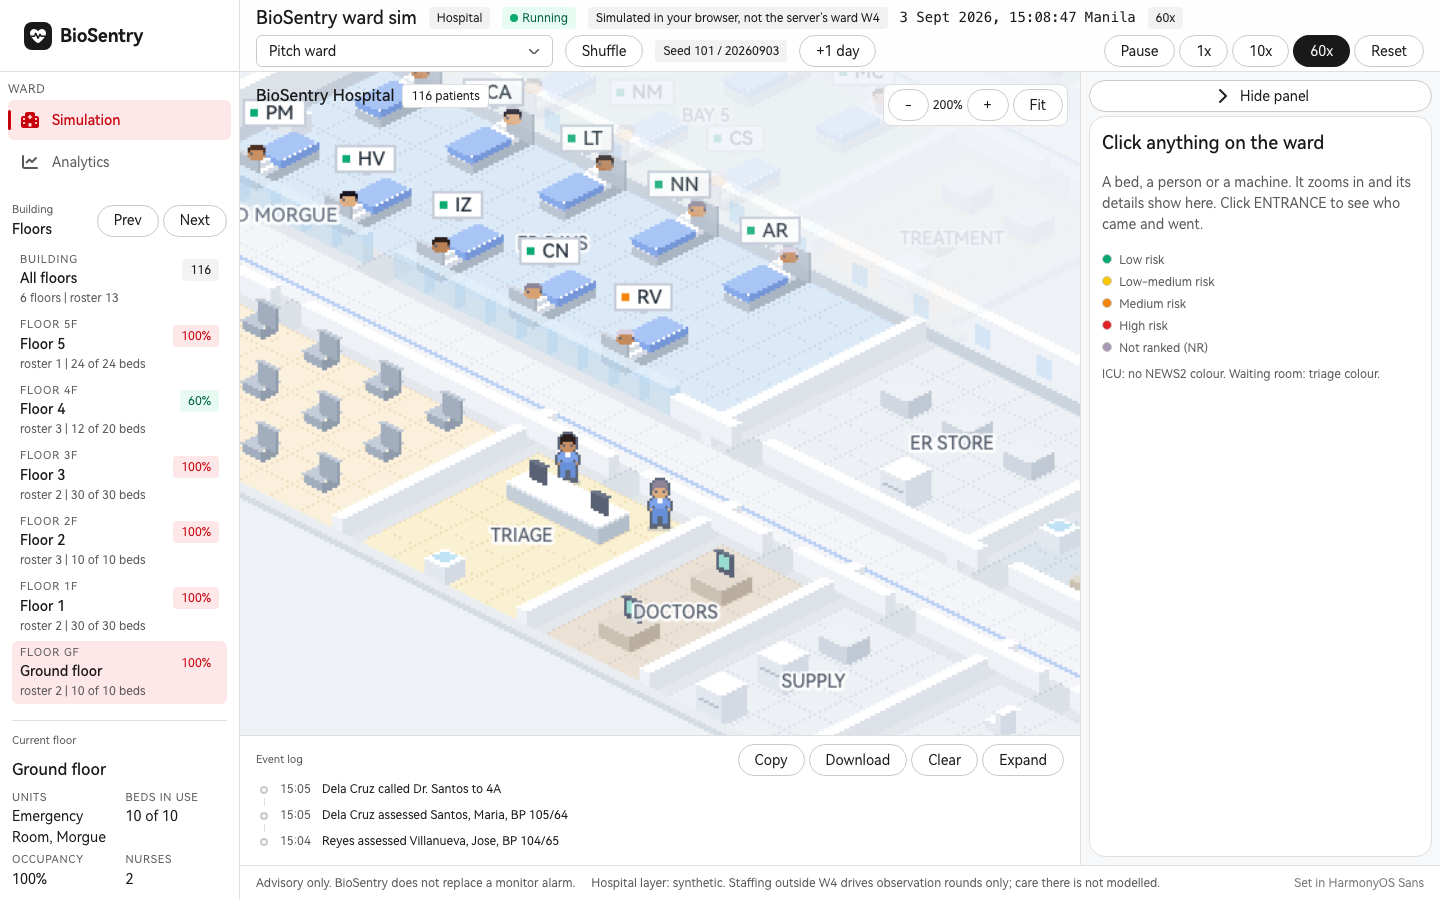
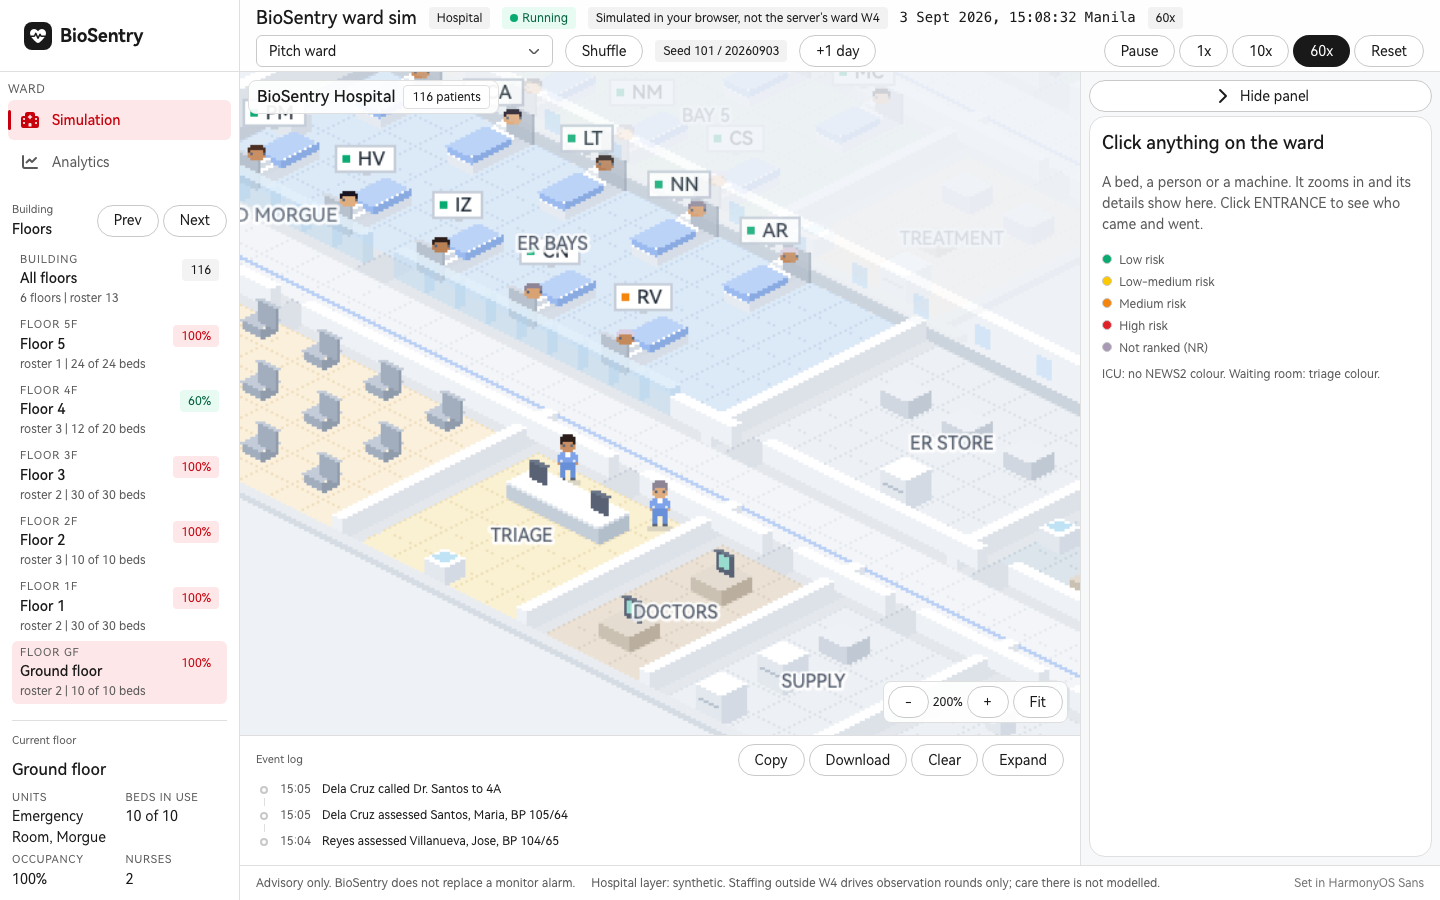
style: flat calm beds and furniture, outline-free figures, room names on top and inside rooms, bed tags nudged apart, stage title chip and bottom zoom bar; analytics: hide floor list, sans chart text; screenshots

diff --git a/src/render/draw.ts b/src/render/draw.ts
@@ -43,6 +43,7 @@ const SELECT = "#0A59F7"; // hw-ui blue: the selection outline
 const HOVER = "#9DBDFC";
 const SOFT: [string, string, string] = ["#FFFFFF", "#E3E8EE", "#D3DAE3"]; // white fittings
 const FONT = '500 7.5px "HarmonyOS Sans", system-ui, sans-serif';
+const FONT_TINY = '600 5.5px "HarmonyOS Sans", system-ui, sans-serif';
 const FONT_SMALL = '600 7px "HarmonyOS Sans", system-ui, sans-serif';
 
 export const CHIP_COLOURS = {
@@ -255,10 +256,10 @@ const COVER: [string, string, string] = ["#F4F6F9", "#D8DEE6", "#C8D0DA"];
 function bedItem(bedX: number, headY: number, footY: number, patient: number | null, body = false): Item {
   const y0 = Math.min(headY, footY);
   const north = headY < footY;
-  const frame: [string, string, string] = ["#E3E8EE", "#BCC6D2", "#AAB5C2"];
+  const frame: [string, string, string] = ["#FFFFFF", "#E6EBF1", "#D6DDE6"];
   const sheet = SHEET;
   const blanket: [string, string, string] =
-    patient === null ? ["#E6EDF4", "#CBD6E1", "#BAC6D3"] : ["#A9C5F6", "#86A9EA", "#7597D8"];
+    patient === null ? ["#E6EDF4", "#CBD6E1", "#BAC6D3"] : ["#BCD3F8", "#9BBBF0", "#8AAAE2"];
   return bake(y0 + 1 + bedX, bedX, y0, 1, 2, 16, (ctx) => {
     const x = bedX + 0.12;
     box(ctx, x, y0, 0.76, 2, 4, frame);
@@ -466,7 +467,10 @@ function label(ctx: Ctx, text: string, x: number, y: number, colour: string, fon
 function floorText(ctx: Ctx, spec: FloorSpec) {
   for (const room of spec.rooms) {
     const [x, y] = iso((room.x0 + room.x1 + 1) / 2, (room.y0 + room.y1 + 1) / 2);
-    label(ctx, room.label, x, y, "rgba(40,52,72,.8)");
+    // Inside the room: a name wider than the room's floor steps down a size.
+    const room_w = iso(room.x1 + 1, room.y0)[0] - iso(room.x0, room.y1 + 1)[0];
+    ctx.font = FONT_SMALL;
+    label(ctx, room.label, x, y, "rgba(40,52,72,.8)", ctx.measureText(room.label).width > room_w * 0.8 ? FONT_TINY : FONT_SMALL);
   }
   const [wx, wy] = iso(3, 8.6);
   label(ctx, spec.name, wx, wy, "rgba(55,68,88,.75)", FONT);
@@ -512,10 +516,26 @@ const bedPoint = (bed: Bed): [number, number] => {
 const cellText = (c: Cell) => (c.icu && !c.dead ? `${c.initials} ICU` : c.initials);
 // The dot: the NEWS2 risk when the cell has one, grey when not ranked, else the group colour (intensive care, bodies).
 export const cellDot = (c: Cell) => (typeof c.risk === "string" ? RISK_LIGHT[c.risk] : c.risk === null ? "#A6ADB8" : GROUP_COLOURS[c.group]);
+/** Bed tags that would sit on one another: the nearer bed keeps its place, the others rise a tag's height at a time (at most three). */
+const tagBox = (c: Cell) => cellText(c).length * 4 + (c.dead ? 5 : 11);
+export function tagLifts(beds: { id: string; bed: Bed; cell: Cell | null }[]): Map<string, number> {
+  const lifts = new Map<string, number>();
+  const placed: { x: number; y: number; w: number }[] = [];
+  const sorted = beds.filter((b) => b.cell).sort((a, b) => bedPoint(b.bed)[1] - bedPoint(a.bed)[1]);
+  for (const b of sorted) {
+    const [x, y] = bedPoint(b.bed);
+    const w = tagBox(b.cell!);
+    let up = 0;
+    while (up < 33 && placed.some((p) => Math.abs(p.x - x) < (p.w + w) / 2 && Math.abs(p.y - (y - up)) < 11)) up += 11;
+    placed.push({ x, y: y - up, w });
+    lifts.set(b.id, up);
+  }
+  return lifts;
+}
 const cellTag = (ctx: Ctx, c: Cell, x: number, bottom: number) => tag(ctx, cellText(c), x, bottom, c.dead ? undefined : cellDot(c), c.dead);
 const inTag = (x: number, y: number, cx: number, bottom: number, text: string, dot: boolean) =>
   Math.abs(x - cx) <= text.length * 2 + (dot ? 6 : 3) && y >= bottom - 12 && y <= bottom;
-const TROLLEY: [string, string, string] = ["#A9C5F6", "#86A9EA", "#7597D8"];
+const TROLLEY: [string, string, string] = ["#BCD3F8", "#9BBBF0", "#8AAAE2"];
 
 /** A hospital floor other than W4: baked once; who is where comes from its scene (render/scene.ts) at each paint. */
 export function createFloor(spec: FloorSpec) {
@@ -594,8 +614,6 @@ export function createFloor(spec: FloorSpec) {
         ctx.drawImage(b.cell === null ? item.empty! : b.cell.dead ? item.body! : item.image, item.dx, item.dy);
       }
       while (next < actors.length) actors[next++].draw();
-      floorText(ctx, spec); // names sit over the furniture, not under it
-
       for (const d of scene.drawers) {
         if (!d.full) continue;
         const [x, y] = iso(d.tile[0] + 0.5, d.tile[1] + 0.9);
@@ -620,11 +638,13 @@ export function createFloor(spec: FloorSpec) {
         const m = d.full ? marked(d.id, d.slot) : marked(d.slot);
         if (m) outline(ctx, d.tile[0], d.tile[1], 1, 1, m === "selected");
       }
+      const lifts = tagLifts(scene.beds);
       for (const b of scene.beds) {
         if (!b.cell) continue;
         const [x, y] = bedPoint(b.bed);
-        cellTag(ctx, b.cell, x, y - 8);
-        if (b.late) tag(ctx, "late", x, y - 19); // steady: it never blinks
+        const up = lifts.get(b.id) ?? 0;
+        cellTag(ctx, b.cell, x, y - 8 - up);
+        if (b.late) tag(ctx, "late", x, y - 19 - up); // steady: it never blinks
       }
       for (const p of scene.spots) {
         const [x, y] = tilePoint(p.tile, 0);
@@ -653,6 +673,7 @@ export function createFloor(spec: FloorSpec) {
         const [x, y] = roomCentre(room);
         tag(ctx, room.label, x, y + 5, undefined, true);
       }
+      floorText(ctx, spec); // last: names sit over furniture and tags, never under them
     },
 
     /** The thing at a logical point of this floor: people, tags, beds and drawers, labels. */
@@ -666,10 +687,11 @@ export function createFloor(spec: FloorSpec) {
         const [sx, sy] = iso(p.tile[0] + 0.5, p.tile[1] + 0.5);
         if (Math.abs(x - sx) <= 5 && y <= sy && y >= sy - p.h) return p.id;
       }
+      const lifts = tagLifts(scene.beds);
       for (const b of scene.beds) {
         if (!b.cell) continue;
         const [cx, cy] = bedPoint(b.bed);
-        if (inTag(x, y, cx, cy - 8, cellText(b.cell), !b.cell.dead)) return b.id;
+        if (inTag(x, y, cx, cy - 8 - (lifts.get(b.id) ?? 0), cellText(b.cell), !b.cell.dead)) return b.id;
       }
       for (const p of scene.spots) {
         const [cx, cy] = tilePoint(p.tile, 0);
@@ -884,7 +906,6 @@ export function createW4() {
         next += 1;
       }
 
-      floorText(ctx, W4);
       MACHINES.forEach(([id, tile, name, lift], i) => {
         const [x, y] = iso(tile[0] + 0.5, tile[1] + 0.5);
         if (i < 4) {
@@ -901,6 +922,7 @@ export function createW4() {
       drawEnvelopes(s);
       drawBedOverlays(s, selected, hovered, now);
       drawStaffTags(s, selected, hovered);
+      floorText(ctx, W4);
     },
 
     /** The patient, empty bed, staff member or machine at a logical point of W4, if any. */

diff --git a/src/app.css b/src/app.css
@@ -67,7 +67,7 @@ h1, h2, h3, p, ol, ul { margin: 0; padding: 0; list-style: none; }
 .stage { position: relative; flex: 1; min-height: 0; background: var(--stage); }
 .stage canvas { position: absolute; display: block; touch-action: none; }
 .stagenote { position: absolute; inset: 0; z-index: 2; display: grid; place-items: center; padding: var(--hw-space-6); text-align: center; background: var(--stage); color: var(--hw-color-text); }
-.stagetitle { position: absolute; top: var(--hw-space-4); left: var(--hw-space-5); max-width: calc(100% - 240px); z-index: 1; display: flex; align-items: center; gap: var(--hw-space-3); pointer-events: none; }
+.stagetitle { position: absolute; top: var(--hw-space-3); left: var(--hw-space-3); max-width: calc(100% - 24px); padding: var(--hw-space-2) var(--hw-space-3); background: color-mix(in srgb, var(--hw-color-surface) 92%, transparent); border: 1px solid var(--hw-color-border-subtle); border-radius: var(--hw-popup-radius); z-index: 1; display: flex; align-items: center; gap: var(--hw-space-3); pointer-events: none; }
 .stagetitle h2 { font-size: var(--hw-font-size-16); font-weight: var(--hw-weight-semibold); color: var(--hw-color-text); white-space: nowrap; }
 .stagetitle .hw-tag { background: var(--hw-color-surface); border: 1px solid var(--hw-color-border-subtle); height: 24px; }
 
@@ -95,7 +95,7 @@ h1, h2, h3, p, ol, ul { margin: 0; padding: 0; list-style: none; }
 .curfloor dd { font-variant-numeric: tabular-nums; font-size: var(--hw-font-size-14); }
 
 .stagebar { position: absolute; display: flex; gap: var(--hw-space-2); z-index: 1; align-items: center; }
-.zoombar { right: var(--hw-space-4); top: var(--hw-space-4); padding: var(--hw-space-2); background: color-mix(in srgb, var(--hw-color-surface) 92%, transparent); border: 1px solid var(--hw-color-border-subtle); border-radius: var(--hw-popup-radius); }
+.zoombar { right: var(--hw-space-4); bottom: var(--hw-space-4); padding: var(--hw-space-2); background: color-mix(in srgb, var(--hw-color-surface) 92%, transparent); border: 1px solid var(--hw-color-border-subtle); border-radius: var(--hw-popup-radius); }
 .zoompct { min-width: 4ch; text-align: center; font-variant-numeric: tabular-nums; font-size: var(--hw-text-caption); }
 
 .events { display: grid; gap: var(--hw-space-2); padding: var(--hw-space-3) var(--hw-space-5); background: var(--hw-color-surface); border-top: 1px solid var(--hw-color-border-subtle); }
@@ -204,7 +204,7 @@ summary { cursor: pointer; margin-bottom: var(--hw-space-3); }
   .shut .sidetab { writing-mode: horizontal-tb; flex: none; padding: 0 var(--hw-space-5); }
   .command { max-height: none; }
   .topbar { padding: var(--hw-space-3) var(--hw-space-4); }
-  .zoombar { top: auto; bottom: var(--hw-space-2); right: var(--hw-space-2); }
+  .zoombar { bottom: var(--hw-space-2); right: var(--hw-space-2); }
   .vitals { grid-template-columns: minmax(0, 1fr); }
 }
 @media (width >= 992px) {
@@ -243,7 +243,7 @@ summary { cursor: pointer; margin-bottom: var(--hw-space-3); }
 .insights .fig { margin: 0; display: grid; gap: var(--hw-space-2); padding: var(--hw-space-3) 0; border-top: 1px solid var(--hw-color-border-subtle); min-width: 0; }
 .insights figcaption { color: var(--hw-color-text-muted); }
 .insights .chart { width: 100%; max-width: 100%; height: auto; background: var(--hw-color-surface-subtle); border: 1px solid var(--hw-color-border-subtle); border-radius: var(--hw-popup-radius); }
-.insights .chart text { font-family: var(--hw-font-mono); }
+.insights .chart text { font-family: var(--hw-font-sans); }
 .insights .legend { display: flex; flex-wrap: wrap; gap: var(--hw-space-2) var(--hw-space-5); }
 .insights .floorrow, .insights .unit { display: grid; gap: 2px; }
 .insights .floorrow { grid-template-columns: repeat(auto-fill, minmax(260px, 1fr)); }

diff --git a/src/render/sprites.ts b/src/render/sprites.ts
@@ -10,7 +10,7 @@ export function sprite(rows: string[], palette: Palette, flip = false): HTMLCanv
   const ctx = canvas.getContext("2d")!;
   rows.forEach((row, y) => {
     [...row].forEach((ch, x) => {
-      if (ch === ".") return;
+      if (ch === "." || palette[ch] === "none") return; // "none": a cell left clear, so figures carry no outline
       ctx.fillStyle = palette[ch];
       ctx.fillRect(flip ? canvas.width - 1 - x : x, y, 1, 1);
     });
@@ -72,7 +72,7 @@ export const PORTRAIT = [...HEAD_FRONT, ...BODY.slice(0, 4)];
 const INK = "#5B6678"; // a soft slate outline, not black
 
 const staffPalette = (skin: string, hair: string, top: string, shade: string, trim: string, legs: string): Palette => ({
-  k: INK,
+  k: "none",
   e: INK,
   s: skin,
   h: hair,
@@ -125,7 +125,7 @@ export const ENVELOPE = [
   "kwwwwwwwk",
   "kkkkkkkkk",
 ];
-export const ENVELOPE_PALETTE: Palette = { k: INK, w: "#FFFFFF" };
+export const ENVELOPE_PALETTE: Palette = { k: "#9AA6B8", w: "#FFFFFF" };
 
 export const PLANT = [
   "...g.g...",
@@ -139,4 +139,4 @@ export const PLANT = [
   "..kttttk.",
   "...kkkk..",
 ];
-export const PLANT_PALETTE: Palette = { g: "#5FB08A", G: "#8AD3AE", k: INK, t: "#D9B9A0" };
+export const PLANT_PALETTE: Palette = { g: "#5FB08A", G: "#8AD3AE", k: "none", t: "#D9B9A0" };

diff --git a/src/App.tsx b/src/App.tsx
@@ -769,10 +769,10 @@ function Ward({ token, admin, onSignedOut, watch, stageNote }: { token: string |
       />
       <aside className="wardside">
         <ViewNav page={page} brand={false} />
-        <div className="floaters">
+        {page !== "analytics" && <div className="floaters">
           <Directory floors={floors} view={view} onView={(floor) => go({ rail: floor })} ward={{ name: "Ward W4", count: world.s.patients.length, noun: "patients" }} />
           <CurrentFloor floors={floors} view={view} ward={{ name: "Ward W4", rows: [["Patients", world.s.patients.length], ["Ranked", world.s.patients.filter((p) => p.rank !== null).length], ["Not ranked", world.s.patients.filter((p) => p.rank === null).length], ["Speed", world.s.speed === 0 ? "Paused" : `${world.s.speed}x`]] }} />
-        </div>
+        </div>}
       </aside>
       <div className="wardmain">
       {page === "analytics" && (
